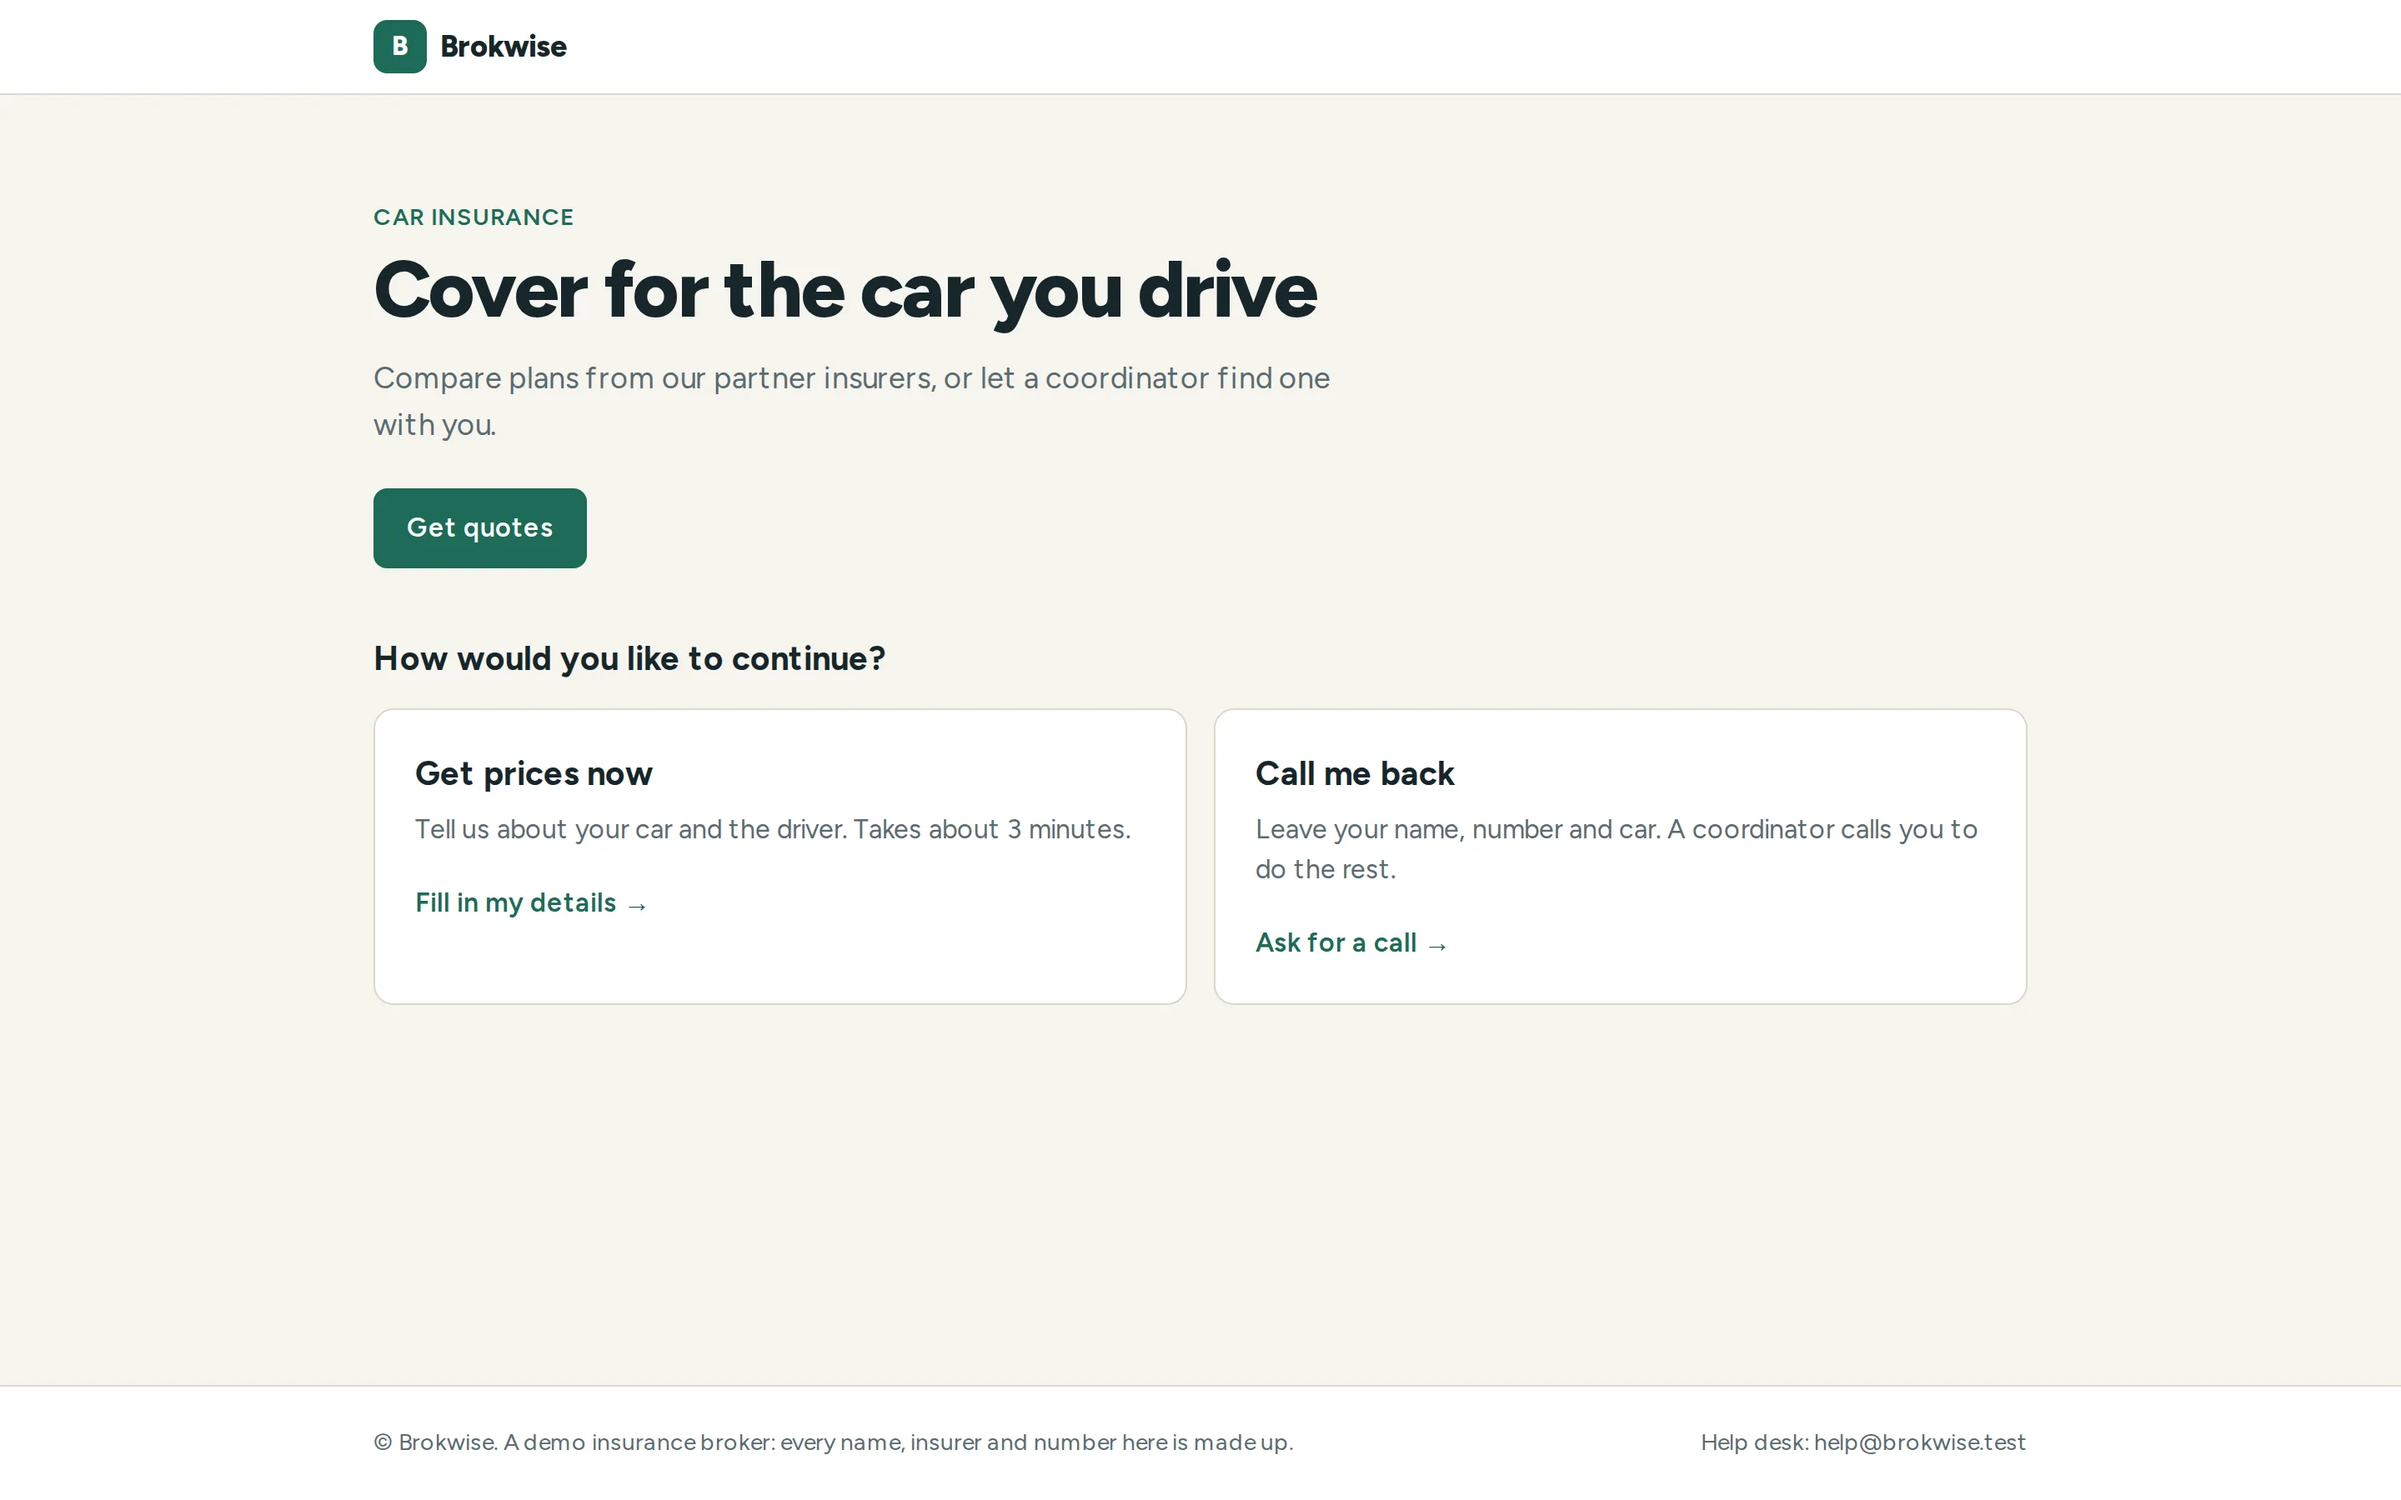
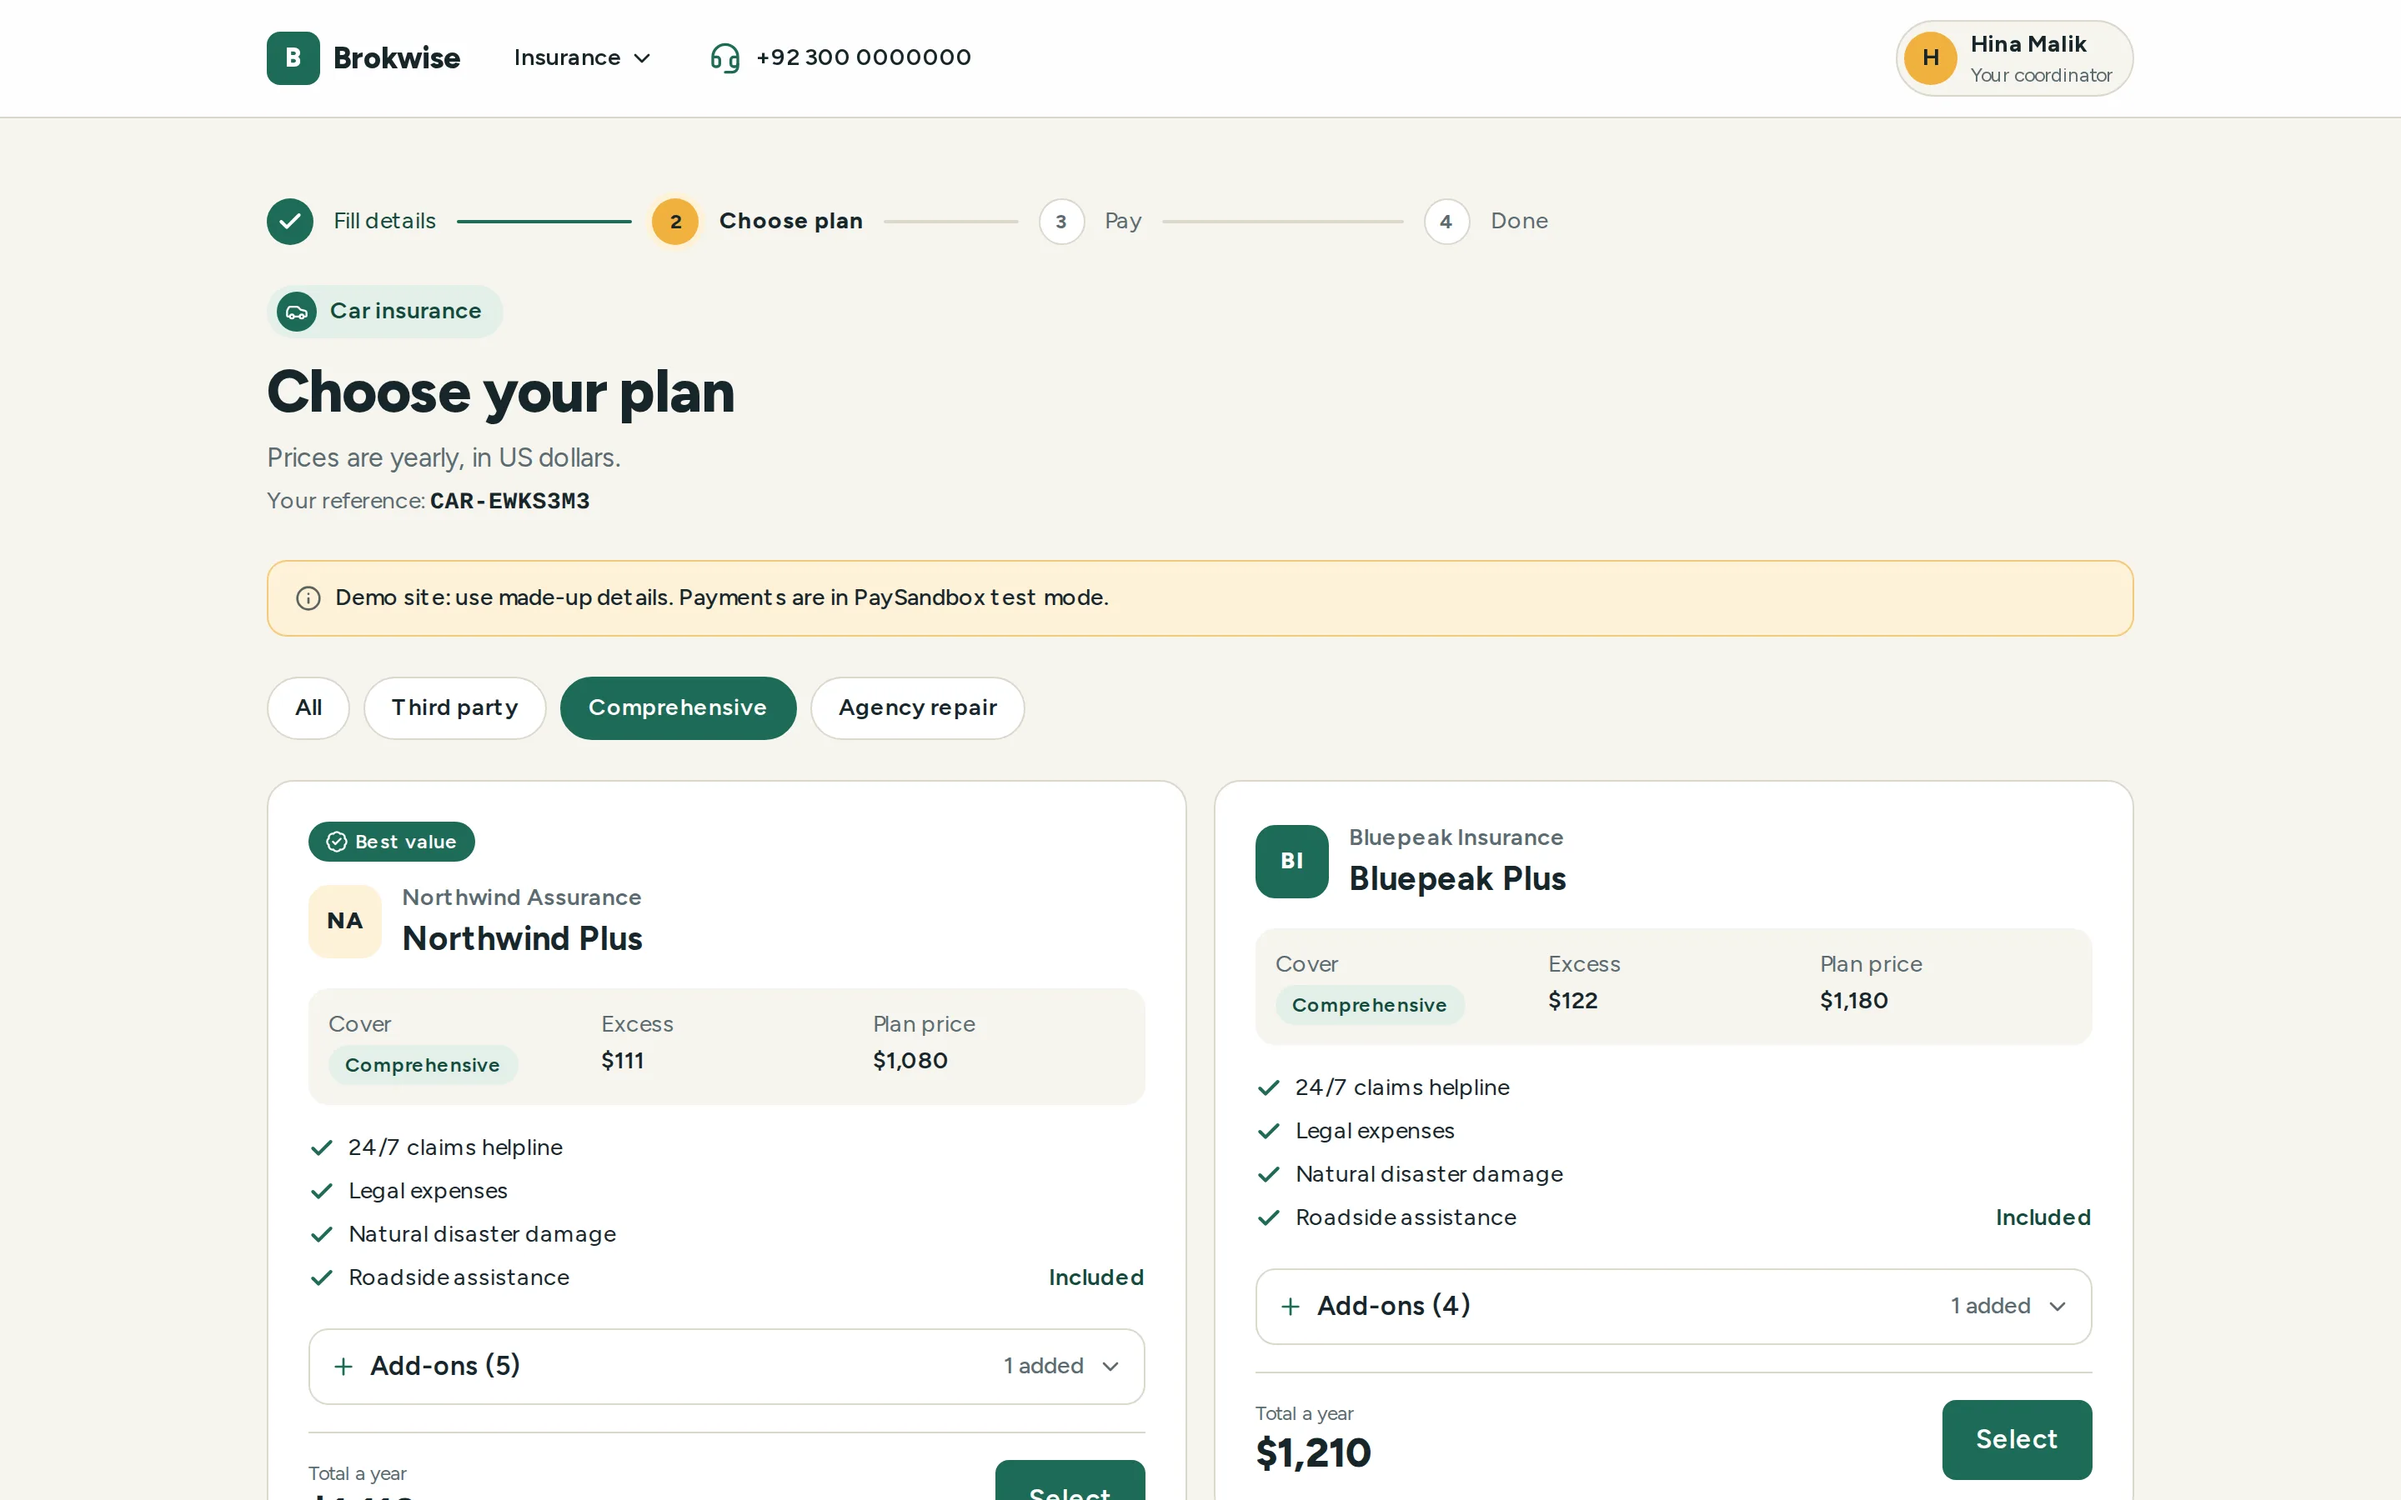
chore: fresh Brokwise, PolicyDesk and checkout screenshots of the live apps

diff --git a/lib/projects.ts b/lib/projects.ts
@@ -98,7 +98,7 @@ export const PROJECTS: Project[] = [
     },
     cover: {
       src: "/policydesk-lead.webp",
-      alt: "PolicyDesk lead page: progress from quote to paid, quotes from two insurers, and the customer card",
+      alt: "PolicyDesk lead page: the customer paid $1,170 online on the website, the progress rail with Paid done, and the next step",
       width: 2880,
       height: 1060,
     },
@@ -206,14 +206,14 @@ export const PROJECTS: Project[] = [
     },
     cover: {
       src: "/projects/brokwise/home.webp",
-      alt: "Brokwise home page: \"Insurance, the wise way\", with car insurance open and other lines coming soon",
+      alt: "Brokwise home page: car, travel, home and health insurance, how it works, and the trust strip",
       width: 2880,
       height: 1800,
     },
     gallery: [
       {
         src: "/projects/brokwise/car.webp",
-        alt: "Car insurance: choose \"Get prices now\" or \"Call me back\"",
+        alt: "Car plans priced from the customer's answers: insurer badges, Cheapest and Best value tags, add-ons, and the coordinator in the header",
         width: 2880,
         height: 1800,
       },
